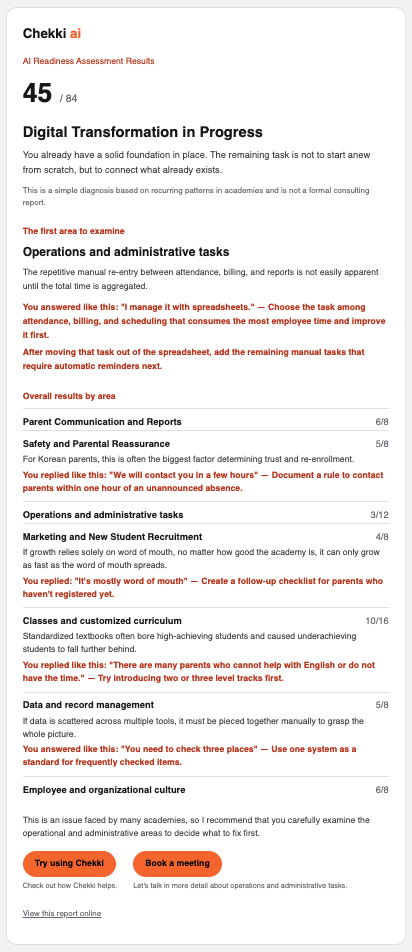
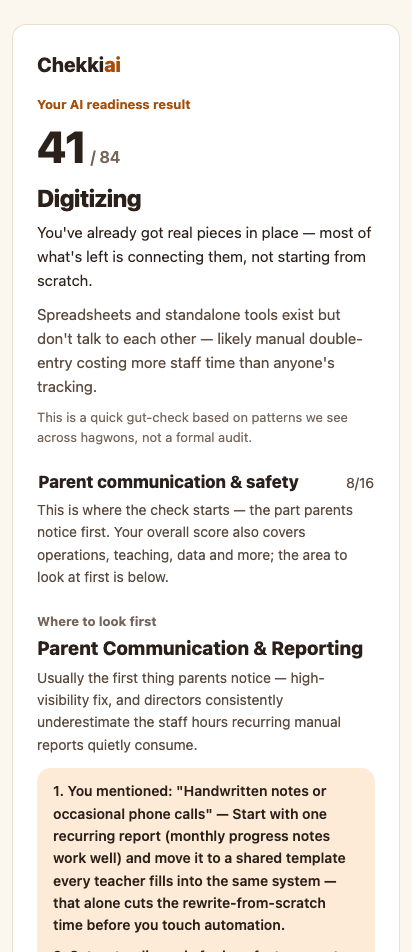
Update the Hagwon AI Readiness case study after the audit
- Correct the pillar count (7, not 6), question count (17) and score
  range (21-84) everywhere.
- Rewrite the client-side scoring decision as a reversal: the server now
  rebuilds the report from raw answers, since the API used to email and
  publish whatever report text a request sent.
- Add the language-split admin stats hurdle and the noindex permalink
  guardrail; update lifecycle, guardrails and diagram labels.
- New screenshots in Chekki's warm design, including the real report
  email.
- Add a 2026-10-14 log entry.

diff --git a/components/caseStudyData.ts b/components/caseStudyData.ts
@@ -3,15 +3,15 @@ import { CaseStudyType } from '../types.ts';
 export const studyDataEn: Record<string, CaseStudyType> = {
   "hagwon-readiness": {
     title: "Hagwon AI Readiness Index — Bilingual Lead-Gen Assessment",
-    tagline: "A 6-pillar, EN/KO self-assessment that scores a hagwon director's AI readiness out of 84, emails a personalized report, and routes the result into Chekki's B2B sales funnel — with GA4 attribution and a password-gated admin view behind it.",
+    tagline: "A 7-pillar, EN/KO self-assessment that scores a hagwon director's AI readiness out of 84, emails a personalized report, and routes the result into Chekki's B2B sales funnel — with GA4 attribution and a password-gated admin view behind it.",
     liveUrl: "https://ai-readiness.chekkiai.com",
     screenshots: [
       { label: "Quiz Landing", url: "/screenshots/hagwon-readiness/01-landing.png", subLabel: "Bilingual Entry Point" },
-      { label: "Assessment Questions", url: "/screenshots/hagwon-readiness/02-questions.png", subLabel: "6-Pillar Question Flow" },
+      { label: "Assessment Questions", url: "/screenshots/hagwon-readiness/02-questions.png", subLabel: "7-Pillar Question Flow" },
       { label: "Emailed Report", url: "/screenshots/hagwon-readiness/03-email-report.png", subLabel: "Auto-Generated Personalized Report" }
     ],
     stats: [
-      { label: "Assessment Scope", value: "6 Pillars / 84-pt Scale" },
+      { label: "Assessment Scope", value: "7 Pillars / 17 Questions" },
       { label: "Languages", value: "EN / KO Bilingual" },
       { label: "Lead Delivery", value: "Auto Email + Firestore Permalink" }
     ],
@@ -21,7 +21,7 @@ export const studyDataEn: Record<string, CaseStudyType> = {
       "Traffic driven at the quiz (social, blog, cold outreach) had no way to prove which channel actually produced a completed assessment versus a bounce."
     ],
     solution: [
-      "Built a weighted scoring engine across 6 pillars (0–84 scale) with band cutoffs and a personalized weakest-pillar callout, run client-side against a static question bank.",
+      "Built a weighted scoring engine across 7 pillars (21–84 scale) with band cutoffs and a personalized weakest-pillar callout. One pure report builder runs in the browser for instant results and again on the server, which rebuilds the report from the raw answers before anything is stored or emailed.",
       "On submit, persisted the full rendered report snapshot to Firestore and emailed both the submitter (bilingual HTML report) and an internal notify address (lead alert) via Resend — sliding-window rate-limited per IP to block abuse.",
       "Gave every report a permanent permalink (/results/[id]) that reads the stored snapshot back, so a director's result survives without depending on their browser's localStorage.",
       "Wired GA4 site-wide and fired a generate_lead event with score/band on successful submit, so UTM-tagged campaign links show up as attributable conversions, not just pageviews.",
@@ -36,20 +36,21 @@ export const studyDataEn: Record<string, CaseStudyType> = {
         tradeOffAccepted: "No per-user accounts, no audit log of who viewed the dashboard, one shared password for anyone who has it."
       },
       {
-        decision: "Client-side scoring against a static question bank over a scored server API",
-        alternativeConsidered: "Sending each answer to a /api/score endpoint and computing the result server-side",
-        why: "The scoring logic isn't a secret worth protecting behind a server round-trip, and computing it client-side means instant feedback on the results page with zero added latency.",
-        tradeOffAccepted: "A determined visitor could inspect the client bundle to reverse-engineer scoring weights — acceptable, since gaming your own diagnostic score has no payoff."
+        decision: "Rebuild the report on the server from raw answers, reversing an earlier client-scored design",
+        alternativeConsidered: "Keeping the original design: score in the browser and POST the finished report (score, band, recommendation copy) for the server to store and email",
+        why: "The original reasoning was that gaming your own score has no payoff. An audit found the real risk wasn't the score but the text: whatever a POST contained was emailed from a Chekki address to any recipient and published at a public permalink. Moving the same pure builder to the server means the API accepts only answers and contact details.",
+        tradeOffAccepted: "Scoring now runs twice (browser for instant feedback, server for the record), so lib/report.ts must stay free of browser-only code — guarded by a small assert-based check script."
       }
     ],
     architecture: {
       lifecycle: [
-        "Quiz: lib/questions.ts defines the 6-pillar question bank; lib/scoring.ts weights answers into a 0–84 score, a band, and a weakest pillar.",
-        "Submit: POST /api/submit validates the email, rate-limits by IP (5/hr sliding window), writes the full report snapshot to Firestore's readiness_submissions, and fires two Resend emails.",
+        "Quiz: lib/questions.ts defines the 7-pillar, 17-question bank; lib/scoring.ts weights answers into a 21–84 score, a band, and a weakest pillar; lib/report.ts turns that into the localized report.",
+        "Submit: POST /api/submit validates the email and that every question has an A–D answer, rate-limits by IP (5/hr sliding window), rebuilds the report server-side, writes it plus the raw answers to Firestore's readiness_submissions, and fires two Resend emails.",
         "Permalink: /results/[id] reads that same Firestore doc back, rendering the identical report without recomputing anything from the visitor's answers.",
-        "Admin: /admin (Basic Auth via middleware.ts) reads every submission and recomputes the same distribution stats scripts/analyze-submissions.mjs already produced from the CLI, just live and in-browser."
+        "Admin: /admin (Basic Auth via middleware.ts) reads every submission and groups it by stable band and pillar ids, so English and Korean submissions land in the same buckets."
       ],
       guardrails: [
+        "The API never accepts report text: it takes answers and contact details only, so a forged request can't put its own words into a Chekki-branded email or a public permalink.",
         "Sliding-window in-memory rate limiter (5 submissions/hour/IP) blocks scripted abuse of the free-text feedback and email fields.",
         "User-submitted name/hagwon/feedback strings are HTML-escaped before being interpolated into the report email, closing the injection path a raw template string would leave open.",
         "/admin is unreachable without ADMIN_PASSWORD set — the route 503s rather than silently serving submissions data if the env var is missing.",
@@ -61,7 +62,7 @@ export const studyDataEn: Record<string, CaseStudyType> = {
 function scoreAssessment(answers) {
   // each pillar's raw score is a weighted sum of its question answers
   // weakest pillar = lowest (raw / maxRaw) ratio, not lowest raw score,
-  // so a 2-question pillar isn't unfairly favored over a 6-question one
+  // so a 2-question pillar isn't unfairly favored over a 4-question one
 }`,
       schema: `type PillarResult = {
   name: string; raw: number; maxRaw: number;
@@ -75,14 +76,15 @@ function scoreAssessment(answers) {
     },
     impact: {
       value: [
-        "Directors get a scored, emailed report in the time it takes to answer ~15 questions — no sales call required before they see where they stand.",
+        "Directors get a scored, emailed report in the time it takes to answer 17 questions — no sales call required before they see where they stand.",
         "Every submission is a warm lead with a bilingual report, a stored Firestore record, and GA4 attribution — three things a static quiz with no backend would have had none of.",
-        "The admin dashboard reuses the exact same aggregate logic as the CLI analysis script, so there's one source of truth for what a submission looks like instead of two implementations drifting apart."
+        "The quiz now matches Chekki's current design system (warm cream and cocoa tokens, Pretendard, device-following light/dark), so directors arriving from chekkiai.com/schools don't jump into a different-looking product."
       ],
       security: [
         "HTML-escaping on every user-submitted field going into an email template, closing an injection path that would otherwise let a submitted name or feedback string forge links or markup in an email that looks like it's from Chekki.",
         "Basic Auth admin gate fails closed: no ADMIN_PASSWORD env var means a 503, not an open dashboard.",
-        "Per-IP sliding-window rate limiting on the only public write endpoint (/api/submit)."
+        "Per-IP sliding-window rate limiting on the only public write endpoint (/api/submit).",
+        "Report permalinks are marked noindex, so a director's name and scores are reachable by link but not by search."
       ]
     },
     behindTheArchitecture: {
@@ -107,7 +109,12 @@ function scoreAssessment(answers) {
         title: "GA4 and admin code shipped locally, never reached the deploy",
         incident: "After wiring up GA4 and the admin dashboard, Realtime showed 0 users and /admin was unreachable — Vercel's redeploy button was just rebuilding the last pushed commit, which predated the changes.",
         diagnosis: "The changes existed only in the local working tree; nothing had actually been committed or pushed to main yet.",
-        resolution: "Committed and pushed the changes to trigger a real deploy off the new commit, instead of continuing to redeploy stale code."
+        resolution: "Committed and pushed the changes to trigger a real deploy off the new commit, instead of continuing to redeploy stale code."      },
+      {
+        title: "Admin counted every band twice, once per language",
+        incident: "The admin dashboard showed \"Digitizing\" and \"디지털 전환 중\" as two separate bands, and Korean submissions got the wrong badge colour.",
+        diagnosis: "Submissions stored the band and weakest-pillar names in the visitor's language, and the dashboard grouped on those display strings.",
+        resolution: "Gave each band a stable id stored with every new submission and grouped on band and pillar ids. Older records are matched back by their English or Korean name, so no migration was needed."
       }
     ]
   },
@@ -1320,15 +1327,15 @@ Call B — feedback
 export const studyDataKo: Record<string, CaseStudyType> = {
   "hagwon-readiness": {
     title: "학원 AI 준비도 지표 — 이중언어 리드 확보 진단",
-    tagline: "학원 원장의 AI 준비도를 84점 만점, 6개 영역으로 진단하는 한/영 이중언어 자가진단. 결과를 개인화 리포트로 이메일 발송하고 Chekki의 B2B 세일즈 퍼널로 연결하며, GA4 유입 추적과 비밀번호 보호 관리자 화면을 갖췄습니다.",
+    tagline: "학원 원장의 AI 준비도를 84점 만점, 7개 영역으로 진단하는 한/영 이중언어 자가진단. 결과를 개인화 리포트로 이메일 발송하고 Chekki의 B2B 세일즈 퍼널로 연결하며, GA4 유입 추적과 비밀번호 보호 관리자 화면을 갖췄습니다.",
     liveUrl: "https://ai-readiness.chekkiai.com",
     screenshots: [
       { label: "퀴즈 랜딩", url: "/screenshots/hagwon-readiness/01-landing.png", subLabel: "이중언어 진입 화면" },
-      { label: "진단 문항", url: "/screenshots/hagwon-readiness/02-questions.png", subLabel: "6개 영역 문항 흐름" },
+      { label: "진단 문항", url: "/screenshots/hagwon-readiness/02-questions.png", subLabel: "7개 영역 문항 흐름" },
       { label: "이메일 리포트", url: "/screenshots/hagwon-readiness/03-email-report.png", subLabel: "자동 생성 개인화 리포트" }
     ],
     stats: [
-      { label: "진단 범위", value: "6개 영역 / 84점 척도" },
+      { label: "진단 범위", value: "7개 영역 / 17문항" },
       { label: "지원 언어", value: "한/영 이중언어" },
       { label: "리드 전달", value: "자동 이메일 + Firestore 영구 링크" }
     ],
@@ -1338,7 +1345,7 @@ export const studyDataKo: Record<string, CaseStudyType> = {
       "퀴즈로 유입된 트래픽(소셜, 블로그, 콜드 아웃리치)은 어떤 채널이 실제로 완료된 진단을 만들어냈는지, 단순 이탈과 구분해 증명할 방법이 없었습니다."
     ],
     solution: [
-      "6개 영역(0~84점 척도)에 가중치를 둔 채점 엔진을 구축, 등급 구간과 개인화된 최약점 영역 코멘트를 정적 문항 뱅크 기준으로 클라이언트 측에서 산출.",
+      "7개 영역(21~84점 척도)에 가중치를 둔 채점 엔진을 구축, 등급 구간과 개인화된 최약점 영역 코멘트를 산출. 하나의 순수 리포트 빌더가 브라우저에서 즉시 결과를 보여주고, 서버에서도 원본 답변으로 리포트를 다시 만든 뒤에만 저장·발송.",
       "제출 시 전체 리포트 스냅샷을 Firestore에 저장하고, 제출자(이중언어 HTML 리포트)와 내부 알림 주소(리드 알림) 양쪽에 Resend로 이메일 발송 — IP당 슬라이딩 윈도우 방식으로 남용 차단.",
       "모든 리포트에 영구 링크(/results/[id])를 부여해 저장된 스냅샷을 다시 읽어오도록 하여, 원장의 결과가 브라우저 localStorage에 의존하지 않고 유지되도록 함.",
       "GA4를 전체 사이트에 연동하고 제출 성공 시 점수/등급을 담은 generate_lead 이벤트를 발생시켜, UTM 태그가 붙은 캠페인 링크가 단순 페이지뷰가 아닌 귀속 가능한 전환으로 집계.",
@@ -1353,20 +1360,21 @@ export const studyDataKo: Record<string, CaseStudyType> = {
         tradeOffAccepted: "개별 사용자 계정 없음, 대시보드 열람자에 대한 감사 로그 없음, 비밀번호를 아는 사람이면 누구나 공유 접근."
       },
       {
-        decision: "채점 서버 API 대신 정적 문항 뱅크 기준 클라이언트 측 채점",
-        alternativeConsidered: "각 답변을 /api/score 엔드포인트로 전송해 서버 측에서 결과 계산",
-        why: "채점 로직은 서버 왕복으로 보호할 만큼의 비밀이 아니며, 클라이언트 측 계산은 결과 페이지에서 지연 없이 즉시 피드백을 제공.",
-        tradeOffAccepted: "의도가 있는 방문자는 클라이언트 번들을 분석해 채점 가중치를 역추적할 수 있음 — 자가 진단 점수를 조작해도 얻는 이득이 없으므로 수용 가능."
+        decision: "초기의 클라이언트 채점 설계를 뒤집고, 서버가 원본 답변으로 리포트를 재생성",
+        alternativeConsidered: "기존 설계 유지: 브라우저에서 채점하고 완성된 리포트(점수, 등급, 추천 문구)를 POST해 서버가 저장·발송",
+        why: "처음에는 자기 점수를 조작해도 이득이 없다고 판단했습니다. 하지만 감사 결과 진짜 위험은 점수가 아니라 문구였습니다. POST에 담긴 내용이 그대로 Chekki 주소로 아무에게나 발송되고 공개 영구 링크에 게시될 수 있었습니다. 같은 순수 빌더를 서버로 옮겨, API는 답변과 연락처만 받습니다.",
+        tradeOffAccepted: "채점이 두 번 실행됨(브라우저는 즉시 피드백, 서버는 기록용). 그래서 lib/report.ts에는 브라우저 전용 코드가 없어야 하며, 작은 assert 기반 점검 스크립트로 이를 지킴."
       }
     ],
     architecture: {
       lifecycle: [
-        "퀴즈: lib/questions.ts가 6개 영역 문항 뱅크를 정의하고, lib/scoring.ts가 답변에 가중치를 부여해 0~84점, 등급, 최약점 영역을 산출.",
-        "제출: POST /api/submit이 이메일을 검증하고, IP 기준 요청 제한(시간당 5건, 슬라이딩 윈도우)을 적용하며, 전체 리포트 스냅샷을 Firestore의 readiness_submissions에 기록하고 Resend 이메일 2건을 발송.",
+        "퀴즈: lib/questions.ts가 7개 영역 17문항 뱅크를 정의하고, lib/scoring.ts가 답변에 가중치를 부여해 21~84점, 등급, 최약점 영역을 산출하며, lib/report.ts가 이를 언어별 리포트로 변환.",
+        "제출: POST /api/submit이 이메일과 모든 문항의 A~D 답변을 검증하고, IP 기준 요청 제한(시간당 5건, 슬라이딩 윈도우)을 적용하며, 서버에서 리포트를 재생성해 원본 답변과 함께 Firestore의 readiness_submissions에 기록하고 Resend 이메일 2건을 발송.",
         "영구 링크: /results/[id]가 동일한 Firestore 문서를 다시 읽어와 방문자의 답변을 재계산하지 않고 동일한 리포트를 렌더링.",
-        "관리자: /admin(middleware.ts를 통한 Basic Auth)이 모든 제출 건을 읽어와 scripts/analyze-submissions.mjs가 CLI에서 산출하던 동일한 분포 통계를 브라우저에서 실시간으로 재계산."
+        "관리자: /admin(middleware.ts를 통한 Basic Auth)이 모든 제출 건을 읽어와 고정된 등급·영역 ID로 묶어, 영어와 한국어 제출이 같은 항목으로 집계."
       ],
       guardrails: [
+        "API는 리포트 문구를 받지 않음: 답변과 연락처만 받으므로, 위조된 요청이 Chekki 명의 이메일이나 공개 영구 링크에 임의의 문구를 넣을 수 없음.",
         "메모리 기반 슬라이딩 윈도우 요청 제한(IP당 시간당 5건)으로 자유 서술 피드백·이메일 필드에 대한 스크립트 남용을 차단.",
         "사용자가 제출한 이름/학원명/피드백 문자열은 리포트 이메일에 삽입되기 전 HTML 이스케이프 처리하여, 원시 템플릿 문자열이 열어둘 인젝션 경로를 차단.",
         "ADMIN_PASSWORD가 설정되지 않으면 /admin에 접근할 수 없음 — 환경 변수가 없으면 라우트가 조용히 제출 데이터를 서빙하는 대신 503 처리.",
@@ -1378,7 +1386,7 @@ export const studyDataKo: Record<string, CaseStudyType> = {
 function scoreAssessment(answers) {
   // 각 영역의 원점수는 해당 영역 문항 답변의 가중합
   // 최약점 영역 = 원점수가 아니라 (원점수 / 최대원점수) 비율이 가장 낮은 영역
-  // 문항이 2개뿐인 영역이 6개인 영역보다 부당하게 유리해지지 않도록 함
+  // 문항이 2개뿐인 영역이 4개인 영역보다 부당하게 유리해지지 않도록 함
 }`,
       schema: `type PillarResult = {
   name: string; raw: number; maxRaw: number;
@@ -1392,14 +1400,15 @@ function scoreAssessment(answers) {
     },
     impact: {
       value: [
-        "원장은 약 15개 문항에 답하는 시간 안에 채점되고 이메일로 발송된 리포트를 받음 — 자신의 위치를 확인하기 위해 세일즈 통화가 필요 없음.",
+        "원장은 17개 문항에 답하는 시간 안에 채점되고 이메일로 발송된 리포트를 받음 — 자신의 위치를 확인하기 위해 세일즈 통화가 필요 없음.",
         "모든 제출은 이중언어 리포트, 저장된 Firestore 기록, GA4 귀속 데이터를 갖춘 유효 리드 — 백엔드 없는 정적 퀴즈였다면 셋 다 존재하지 않았을 것.",
-        "관리자 대시보드는 CLI 분석 스크립트와 완전히 동일한 집계 로직을 재사용하여, 제출 데이터의 정의가 두 구현으로 어긋나지 않고 단일한 기준으로 유지."
+        "퀴즈가 Chekki의 현재 디자인 시스템(따뜻한 크림·코코아 토큰, Pretendard, 기기 설정을 따르는 라이트/다크)과 일치하여, chekkiai.com/schools에서 넘어온 원장이 전혀 다른 제품처럼 느끼지 않음."
       ],
       security: [
         "사용자가 제출한 모든 필드를 이메일 템플릿에 삽입하기 전 HTML 이스케이프 처리하여, 제출된 이름이나 피드백 문자열이 Chekki에서 온 것처럼 보이는 이메일에 링크나 마크업을 위조하는 경로를 차단.",
         "Basic Auth 관리자 게이트는 실패 시 폐쇄형으로 동작: ADMIN_PASSWORD 환경 변수가 없으면 503, 열려있는 대시보드가 아님.",
-        "유일한 공개 쓰기 엔드포인트(/api/submit)에 IP당 슬라이딩 윈도우 요청 제한 적용."
+        "유일한 공개 쓰기 엔드포인트(/api/submit)에 IP당 슬라이딩 윈도우 요청 제한 적용.",
+        "리포트 영구 링크는 noindex 처리하여, 원장의 이름과 점수는 링크로만 접근 가능하고 검색에는 노출되지 않음."
       ]
     },
     behindTheArchitecture: {
@@ -1424,7 +1433,12 @@ function scoreAssessment(answers) {
         title: "GA4와 관리자 코드가 로컬에만 존재하고 배포에 반영되지 않음",
         incident: "GA4와 관리자 대시보드를 연동한 뒤 Realtime에 사용자가 0명으로 표시되고 /admin에 접근할 수 없었음 — Vercel의 재배포 버튼이 변경 이전의 마지막 푸시된 커밋만 다시 빌드하고 있었음.",
         diagnosis: "변경 사항이 로컬 워킹 트리에만 존재했고, 아직 main에 커밋되거나 푸시되지 않은 상태였음.",
-        resolution: "변경 사항을 커밋하고 푸시해 새 커밋 기준으로 실제 배포를 트리거 — 오래된 코드를 계속 재배포하는 대신."
+        resolution: "변경 사항을 커밋하고 푸시해 새 커밋 기준으로 실제 배포를 트리거 — 오래된 코드를 계속 재배포하는 대신."      },
+      {
+        title: "관리자 화면이 등급을 언어별로 두 번 집계",
+        incident: "관리자 대시보드에 \"Digitizing\"과 \"디지털 전환 중\"이 서로 다른 등급으로 표시되고, 한국어 제출 건에는 잘못된 배지 색상이 적용됨.",
+        diagnosis: "제출 데이터가 등급과 최약점 영역 이름을 방문자의 언어로 저장했고, 대시보드는 이 표시용 문자열로 그룹화하고 있었음.",
+        resolution: "각 등급에 고정 ID를 부여해 새 제출 건마다 저장하고, 등급·영역 ID로 그룹화. 기존 기록은 영어 또는 한국어 이름으로 다시 매칭해 마이그레이션 없이 해결."
       }
     ]
   },

diff --git a/App.tsx b/App.tsx
@@ -451,7 +451,7 @@ const SHIPPED_PROJECTS: Record<'en' | 'ko', ShippedProject[]> = {
       domains: ["ops"],
       title: "Hagwon AI Readiness Index",
       status: "Live · Lead Gen",
-      desc: "Bilingual 6-pillar self-assessment quiz that scores a hagwon's AI readiness, emails a personalized report, and feeds Chekki's sales funnel — plus a Basic-Auth admin dashboard and GA4 attribution to see which channel actually converts.",
+      desc: "Bilingual 7-pillar self-assessment quiz that scores a hagwon's AI readiness, emails a personalized report, and feeds Chekki's sales funnel — plus a Basic-Auth admin dashboard and GA4 attribution to see which channel actually converts.",
       outcome: "Automated lead capture + report delivery, zero manual follow-up needed to see a score",
       stack: ["Next.js 14", "TypeScript", "Firebase Admin / Firestore", "Resend", "GA4", "Vercel Middleware"],
       liveUrl: "https://ai-readiness.chekkiai.com",
@@ -518,7 +518,7 @@ const SHIPPED_PROJECTS: Record<'en' | 'ko', ShippedProject[]> = {
       domains: ["ops"],
       title: "학원 AI 준비도 지표",
       status: "라이브 · 리드 확보",
-      desc: "학원의 AI 준비도를 6개 영역으로 진단하는 이중언어(한/영) 자가진단 퀴즈. 결과 리포트를 이메일로 발송하며 Chekki 세일즈 퍼널로 리드를 연결하고, Basic Auth 관리자 대시보드와 GA4 유입 추적으로 어떤 채널이 실제로 전환되는지 보여줍니다.",
+      desc: "학원의 AI 준비도를 7개 영역으로 진단하는 이중언어(한/영) 자가진단 퀴즈. 결과 리포트를 이메일로 발송하며 Chekki 세일즈 퍼널로 리드를 연결하고, Basic Auth 관리자 대시보드와 GA4 유입 추적으로 어떤 채널이 실제로 전환되는지 보여줍니다.",
       outcome: "리드 수집과 리포트 발송 자동화, 점수 확인까지 수동 후속 조치 불필요",
       stack: ["Next.js 14", "TypeScript", "Firebase Admin / Firestore", "Resend", "GA4", "Vercel Middleware"],
       liveUrl: "https://ai-readiness.chekkiai.com",
@@ -598,6 +598,14 @@ const FILTERS = {
 
 const LOG: LogEntry[] = [
   {
+    date: "2026-10-14",
+    type: "feature",
+    titleEn: "Hagwon AI Readiness Index: server-side reports and Chekki's new design",
+    titleKo: "학원 AI 준비도 지표: 서버 측 리포트 생성과 Chekki 새 디자인 적용",
+    descEn: "An audit found the submit API emailed and published whatever report text a request sent. The server now rebuilds the report from the raw answers. Admin stats group on stable ids instead of localized names, and the quiz moved to Chekki's warm design system with labeled form fields and light-mode contrast fixes.",
+    descKo: "감사 결과 제출 API가 요청에 담긴 리포트 문구를 그대로 이메일로 보내고 게시하고 있었습니다. 이제 서버가 원본 답변으로 리포트를 다시 만듭니다. 관리자 통계는 언어별 이름 대신 고정 ID로 묶고, 퀴즈는 Chekki의 따뜻한 디자인 시스템으로 옮기며 입력란 라벨과 라이트 모드 대비를 개선했습니다."
+  },
+  {
     date: "2026-10-12",
     type: "feature",
     titleEn: "VodaBi: AI stays in role on noisy calls",
@@ -658,8 +666,8 @@ const LOG: LogEntry[] = [
     type: "feature",
     titleEn: "Hagwon AI Readiness Index: bilingual lead-gen quiz shipped",
     titleKo: "학원 AI 준비도 지표: 이중언어 리드 확보 퀴즈 배포",
-    descEn: "Shipped a live 6-pillar bilingual self-assessment feeding Chekki's B2B sales funnel: weighted scoring engine, automated bilingual report emails via Resend, Firestore-backed permalinks, GA4 lead attribution, and a Basic-Auth admin dashboard.",
-    descKo: "Chekki의 B2B 세일즈 퍼널로 연결되는 6영역 이중언어 자가진단을 라이브로 배포했습니다. 가중치 채점 엔진, Resend를 통한 자동 이중언어 리포트 이메일, Firestore 기반 영구 링크, GA4 리드 유입 추적, Basic Auth 관리자 대시보드로 구성됩니다."
+    descEn: "Shipped a live 7-pillar bilingual self-assessment feeding Chekki's B2B sales funnel: weighted scoring engine, automated bilingual report emails via Resend, Firestore-backed permalinks, GA4 lead attribution, and a Basic-Auth admin dashboard.",
+    descKo: "Chekki의 B2B 세일즈 퍼널로 연결되는 7영역 이중언어 자가진단을 라이브로 배포했습니다. 가중치 채점 엔진, Resend를 통한 자동 이중언어 리포트 이메일, Firestore 기반 영구 링크, GA4 리드 유입 추적, Basic Auth 관리자 대시보드로 구성됩니다."
   },
   {
     date: "2026-09-07",

diff --git a/CaseStudyViewer.tsx b/CaseStudyViewer.tsx
@@ -444,9 +444,9 @@ const getFlowchartNodes = (pId: string, lang: 'en' | 'ko'): FlowchartNode[] => {
     ],
     'hagwon-readiness': [
       {
-        title: lang === 'en' ? "6-Pillar Scoring Engine" : "6영역 채점 엔진",
-        subtitle: lang === 'en' ? "Weighted answers into a 0-84 score, band, and weakest pillar" : "답변에 가중치를 부여해 0~84점, 등급, 최약점 영역을 산출",
-        tech: "TypeScript Client-Side Scorer",
+        title: lang === 'en' ? "7-Pillar Scoring Engine" : "7영역 채점 엔진",
+        subtitle: lang === 'en' ? "Weighted answers into a 21-84 score, band, and weakest pillar" : "답변에 가중치를 부여해 21~84점, 등급, 최약점 영역을 산출",
+        tech: "Shared TS Builder (Browser + Server)",
         icon: "code"
       },
       {
